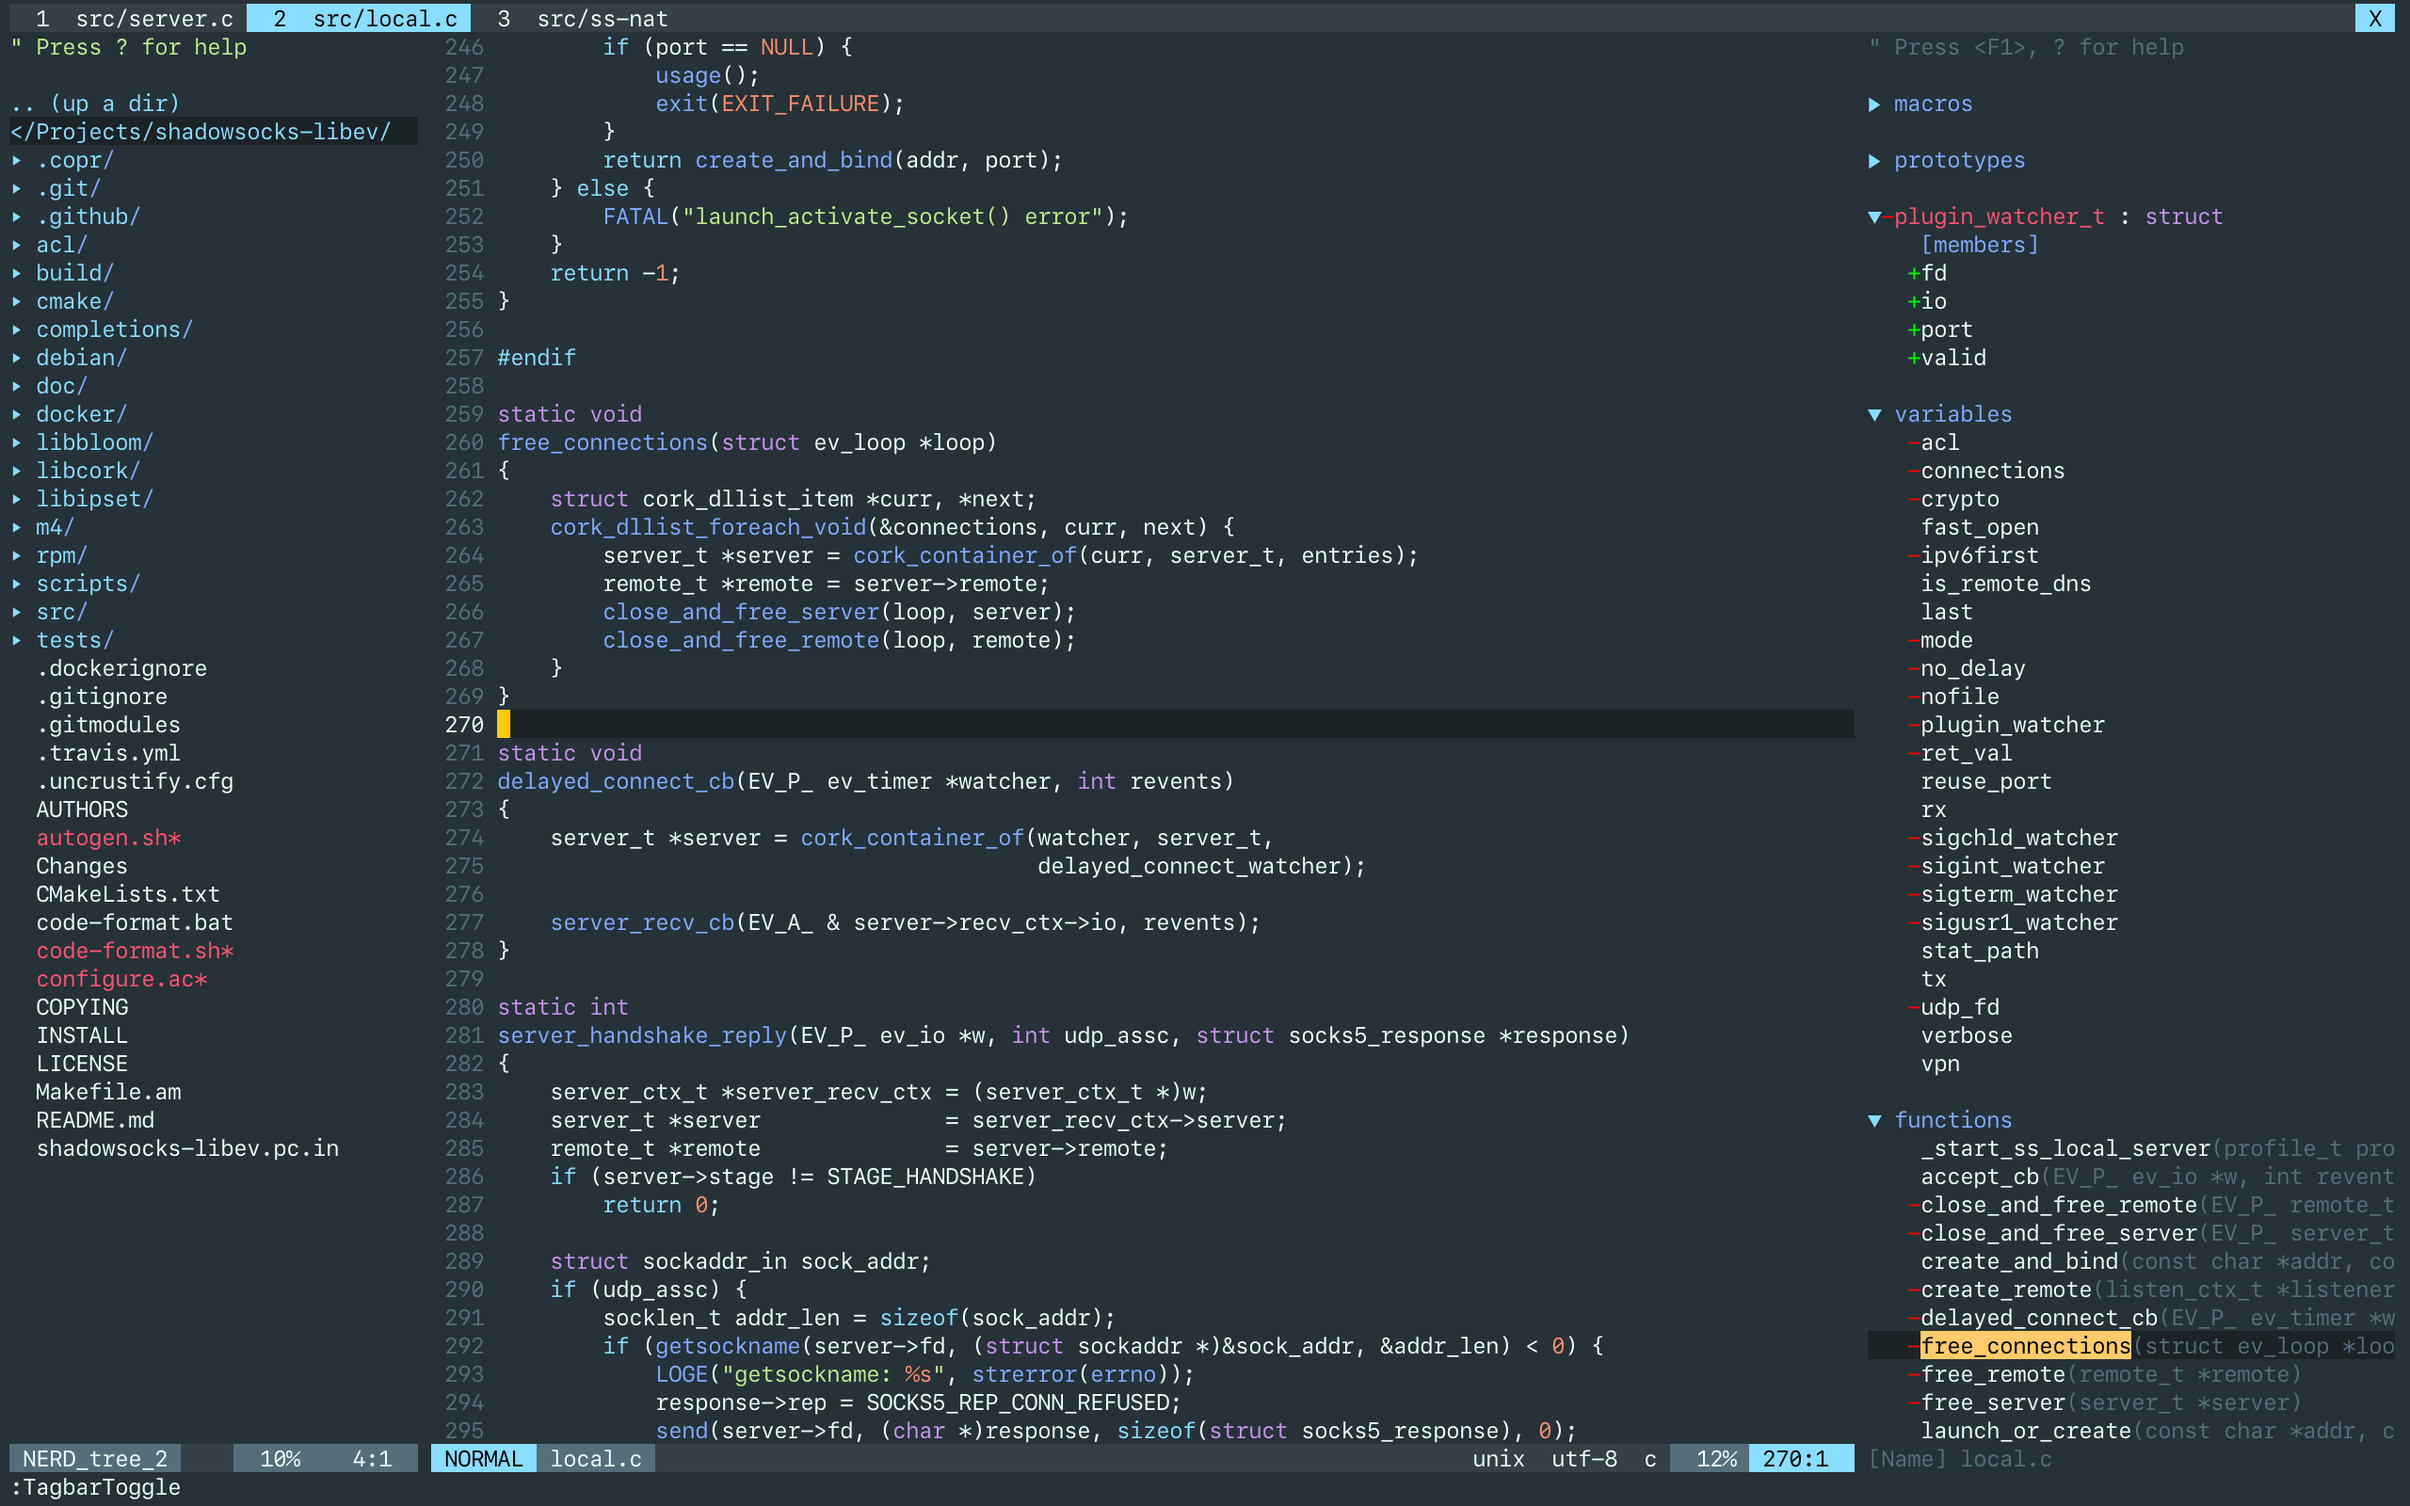
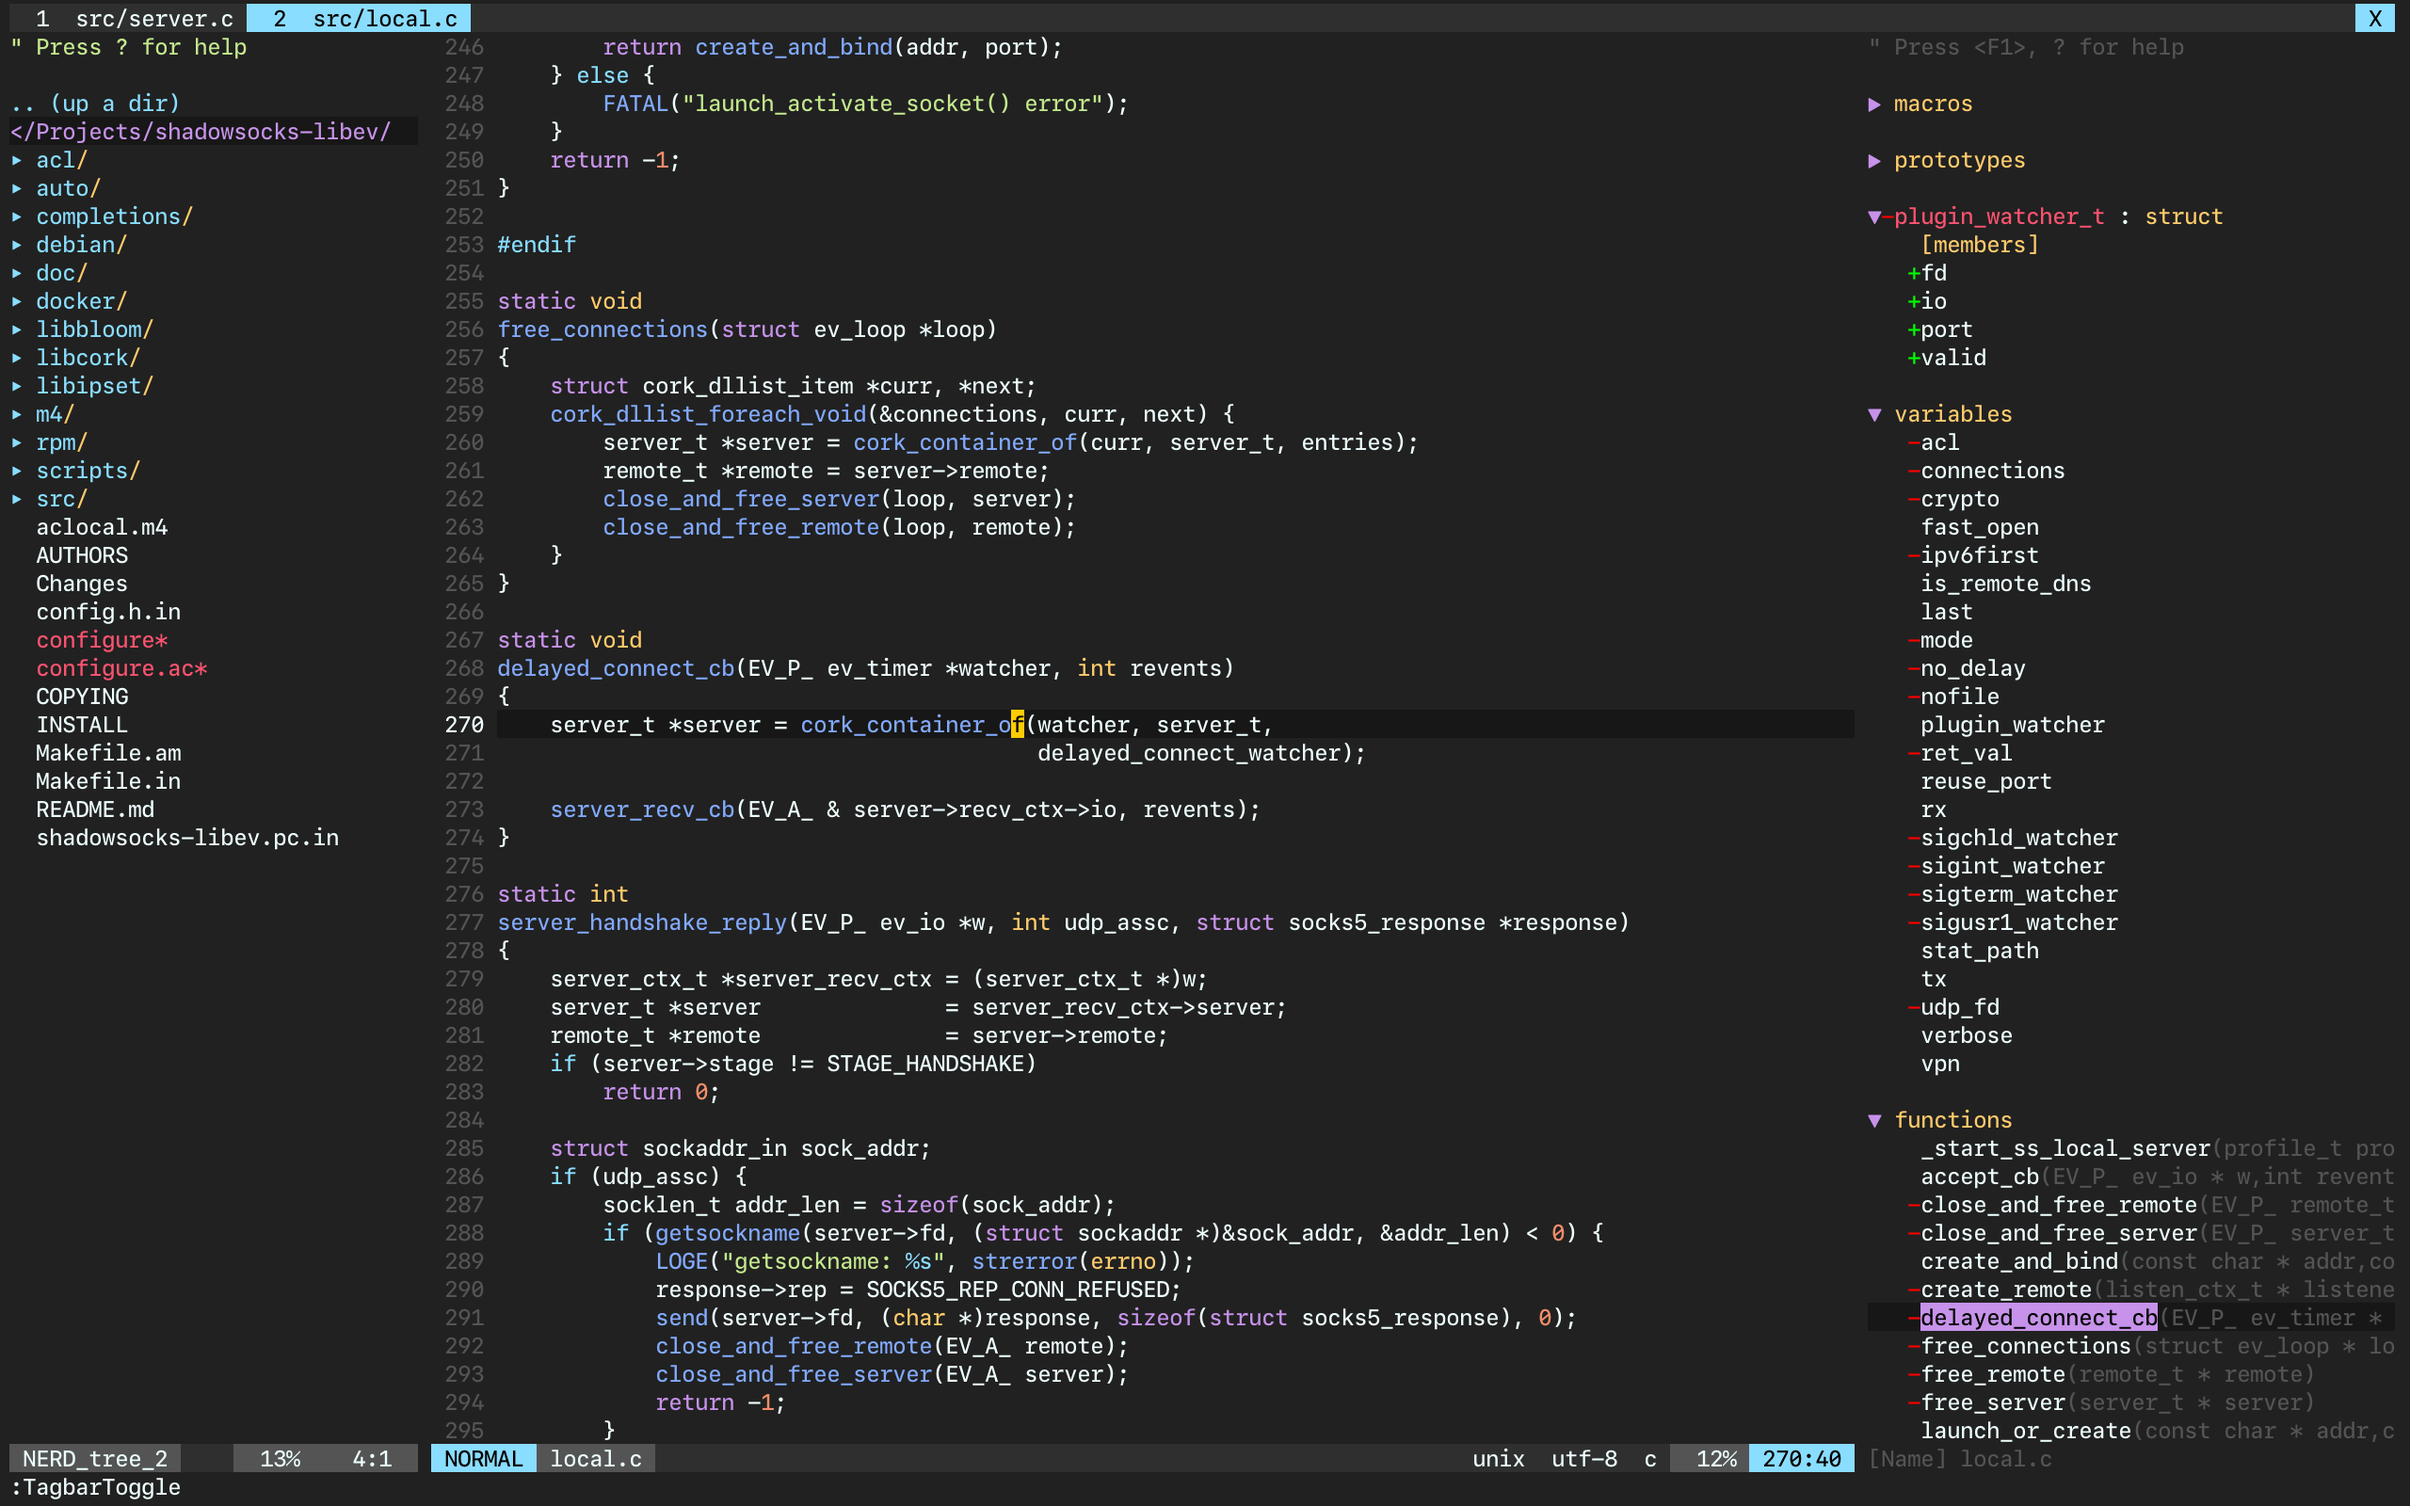
update screenshots

diff --git a/README.md b/README.md
@@ -6,13 +6,15 @@ Try this theme if others don't meet your needs.
 
 ## Preview
 
-### Default
+### Darker
 
 ![](./screenshots/0.png)
 
-### Darker
+### Default
 
 ![](./screenshots/1.png)
+
+Note that syntax highlighting in screenshots was enhanced by [octol/vim-cpp-enhanced-highlight](https://github.com/octol/vim-cpp-enhanced-highlight), you may like to install it manully.
 
 ## How to use
 
